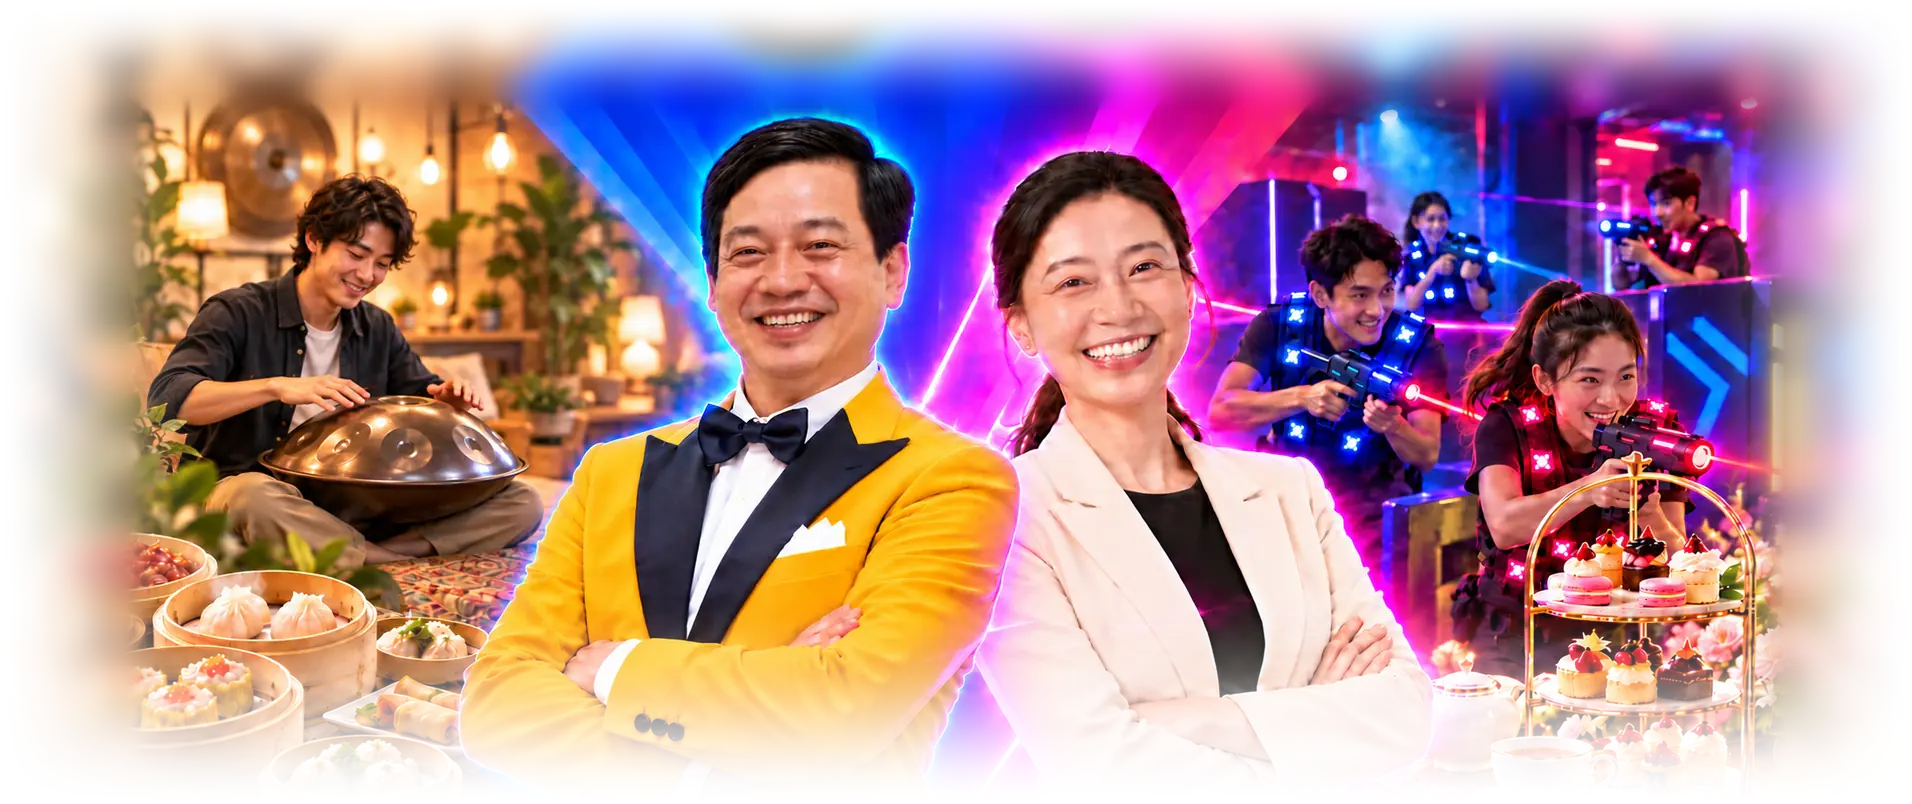
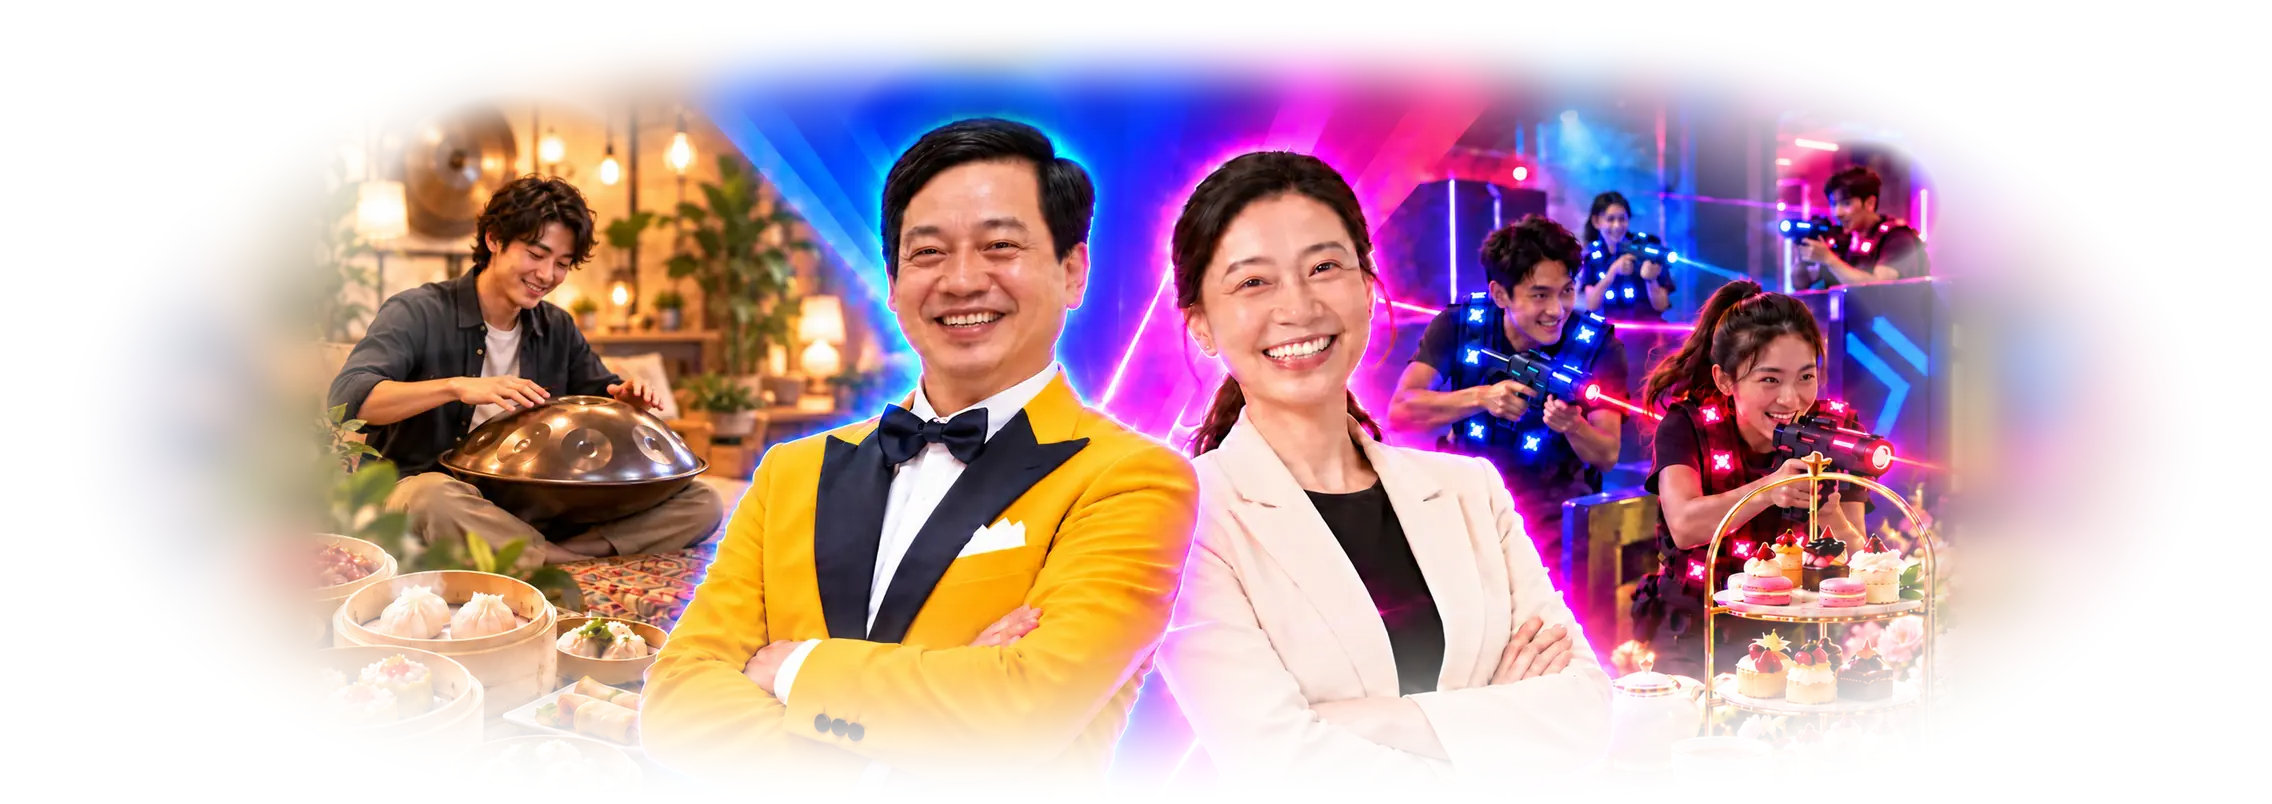
feat: oval poster fade, BATTLE, second hand on the photo
Hero: the poster's soft margin widens to 300px a side and fades out on an
oval instead of straight ramps, tinted toward the blue/pink field, so it
no longer reads as a rectangle. Faces and the handpan stay fully opaque.

Film: the photo shot now has a hand on each side (the second is the first
hand turned 180 degrees about the print, gripping the laser half), and the
right-hand word is shortened to BATTLE so it never runs off the frame.

diff --git a/app/showdown-page.css b/app/showdown-page.css
@@ -723,11 +723,11 @@ body:has(.outing-page)::before { content: ""; position: fixed; inset: 0; z-index
 }
 
 /* ── Poster: one place for its size. The box is the original picture (1672x714); the image file adds a soft,
-      out-of-focus margin that fades to transparent (120px each side, 90px on top), so it spills past the box
-      and no edge is ever visible. The top gap equals that margin, so nothing is clipped under the header. ── */
+      out-of-focus margin with an oval fade to transparent (300px each side, 90px on top), so it spills past the
+      box and has no edge or rectangular outline. The top gap equals that margin, so nothing is clipped. ── */
 .show-hero { --poster-w: min(calc(100vw - 520px), calc(var(--poster-h) * 2.342), 1180px); --poster-gap: calc(var(--poster-w) * .0538 + 2px); --split-end: calc(var(--poster-w) / 2.342 + 60px); }
 .hero-poster { position: relative; width: var(--poster-w); max-width: none; aspect-ratio: 1672 / 714; }
-.hero-poster > .hero-poster-img { position: absolute; left: -7.177%; top: -12.605%; width: 114.354%; height: 112.605%; max-width: none; object-fit: fill; -webkit-mask: none; mask: none; }
+.hero-poster > .hero-poster-img { position: absolute; left: -17.943%; top: -12.605%; width: 135.885%; height: 112.605%; max-width: none; object-fit: fill; -webkit-mask: none; mask: none; }
 .hero-team { position: relative; z-index: 2; }
 @media (max-width: 1099px) { .show-hero { --poster-w: calc(100vw - 40px); } }
 @media (max-width: 700px) {

diff --git a/app/opening-film.css b/app/opening-film.css
@@ -141,6 +141,9 @@
   100% { transform: rotate(-80deg); }
 }
 .split-play .prop { --tx: -57.7%; --ty: -50.4%; width: min(56vw, 100dvh); animation: prop-play 1.567s both; }
+/* The second camp's hand: drawn on the print's own pixel grid but 1200px wide (1040 + its sleeve), so the box is
+   1.15385x wider; its origin and x-offset are rescaled so it moves exactly with the print, across both halves. */
+.split-play .prop.prop-hand { width: calc(min(56vw, 100dvh) * 1.15385); transform-origin: 43.333% 50%; --tx: -50.007%; }
 @keyframes prop-play {
   0% { transform: translate(var(--tx, -50%), var(--ty, -50%)) rotate(-30deg) scale(2.1); animation-timing-function: cubic-bezier(.16,.8,.3,1); }
   12% { transform: translate(var(--tx, -50%), var(--ty, -50%)) rotate(-8deg) scale(1.04); animation-timing-function: linear; }
@@ -344,7 +347,8 @@
   .shot-equals > i:first-child { left: 24vw; top: 42dvh; }
   .shot-equals > i:last-child { left: 32vw; top: 51dvh; }
   .split-play .prop { --tx: -58.4%; --ty: -53.3%; width: min(116vw, 62dvh); }
-  .split-word { font-size: 8.2vw; }
+  .split-play .prop.prop-hand { width: calc(min(116vw, 62dvh) * 1.15385); --tx: -50.613%; }
+  .split-word { font-size: 10vw; }
   .word-top { top: 13dvh; left: 8vw; }
   .word-bottom { bottom: 13dvh; right: 6vw; }
     .shot-turn { --b: 90deg; }

diff --git a/components/trip-showdown.tsx b/components/trip-showdown.tsx
@@ -236,7 +236,7 @@ export default function TripShowdown() {
           <div className="hero-stage">
             <p className="hero-team hero-team-a"><small className="sd-micro">TEAM A</small><strong>{plans[0]?.[1].shortName || "療癒派"}</strong><span>{planLine(plans[0]?.[1]) || "手碟＋港點午餐"}</span></p>
             <div className="hero-poster">
-              <img className="hero-poster-img" src={HERO_POSTER} width={1912} height={804} alt="兩位老闆對決：左邊是手碟與港點，右邊是雷射槍戰與飯店下午茶" fetchPriority="high" />
+              <img className="hero-poster-img" src={HERO_POSTER} width={2272} height={804} alt="兩位老闆對決：左邊是手碟與港點，右邊是雷射槍戰與飯店下午茶" fetchPriority="high" />
             </div>
             <p className="hero-team hero-team-b"><small className="sd-micro">TEAM B</small><strong>{plans[1]?.[1].shortName || "熱血派"}</strong><span>{planLine(plans[1]?.[1]) || "雷射槍戰＋飯店下午茶"}</span></p>
           </div>

diff --git a/components/opening-animation.tsx b/components/opening-animation.tsx
@@ -302,8 +302,9 @@ export default function OpeningAnimation({onFinish, plans, date = "10.29"}: {onF
       </Shot>}
       {step === 7 && <Shot at={CUES[7]} className="shot-split split-play">
         <Split a={<Cut src={IMG.photoA} className="prop sd-cutout" />} b={<Cut src={IMG.photoSwap} className="prop sd-cutout" />}>
+          <Cut src={IMG.handB} className="prop prop-hand sd-cutout" />
           <span className="split-word word-top"><span className="split-word-mask"><span>HANDPAN</span></span></span>
-          <span className="split-word word-bottom"><span className="split-word-mask"><span>LASER BATTLE</span></span></span>
+          <span className="split-word word-bottom"><span className="split-word-mask"><span>BATTLE</span></span></span>
         </Split>
       </Shot>}
       {step === 8 && <Shot at={CUES[8]} className="shot-turn sd-field-blue">

diff --git a/lib/opening-assets.ts b/lib/opening-assets.ts
@@ -5,6 +5,7 @@ export const OPENING_IMAGES = {
   photoA: "/assets/show-photo-a.webp",
   photoB: "/assets/show-photo-b.webp",
   photoSwap: "/assets/show-photo-swap.webp",
+  handB: "/assets/show-hand-b.webp",
   feastA: "/assets/show-feast-a.webp",
   feastB: "/assets/show-feast-b.webp",
 } as const;
